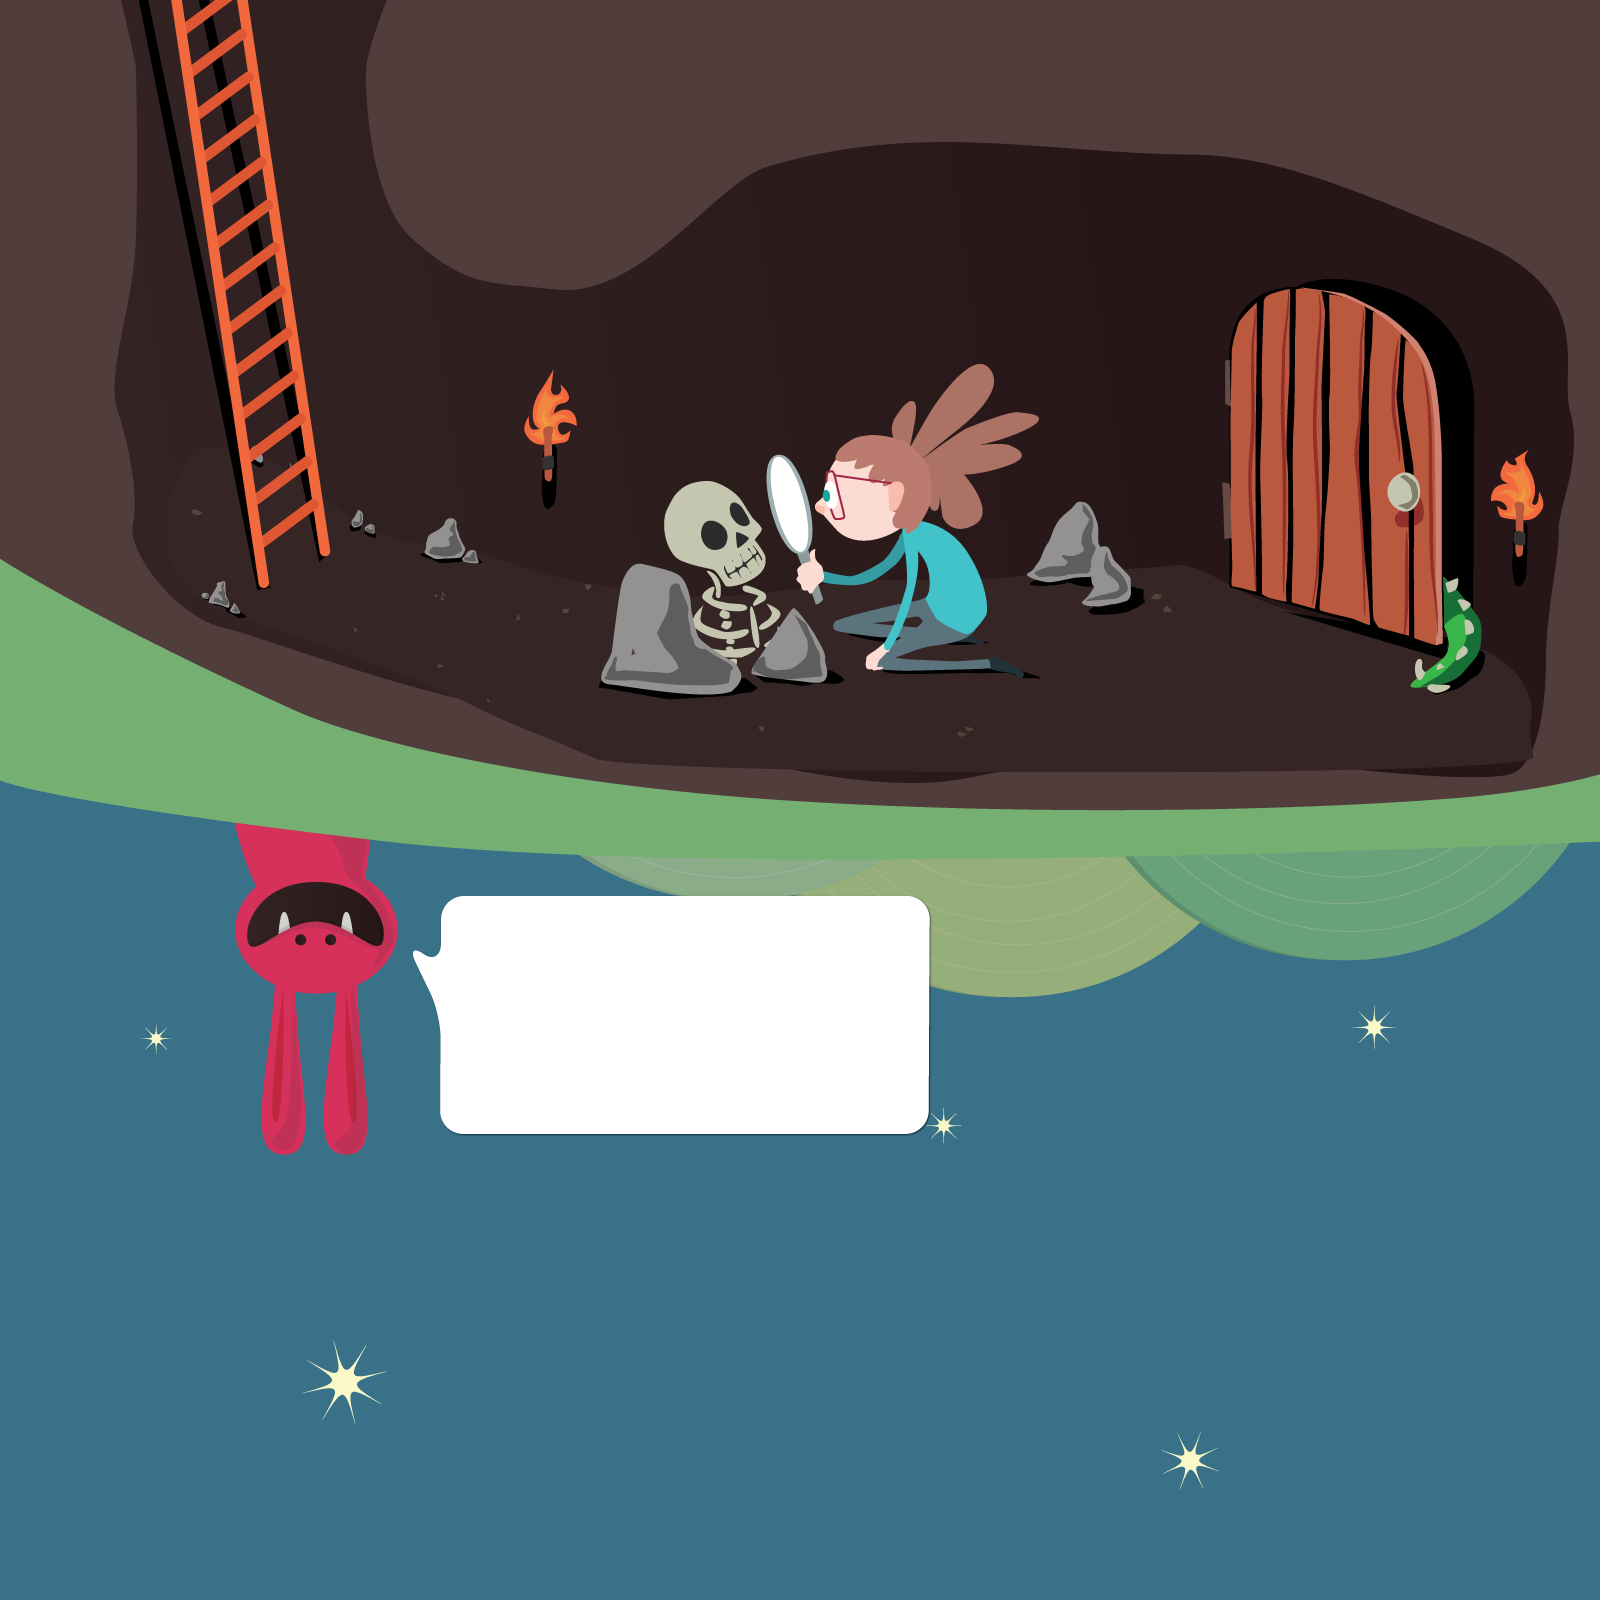
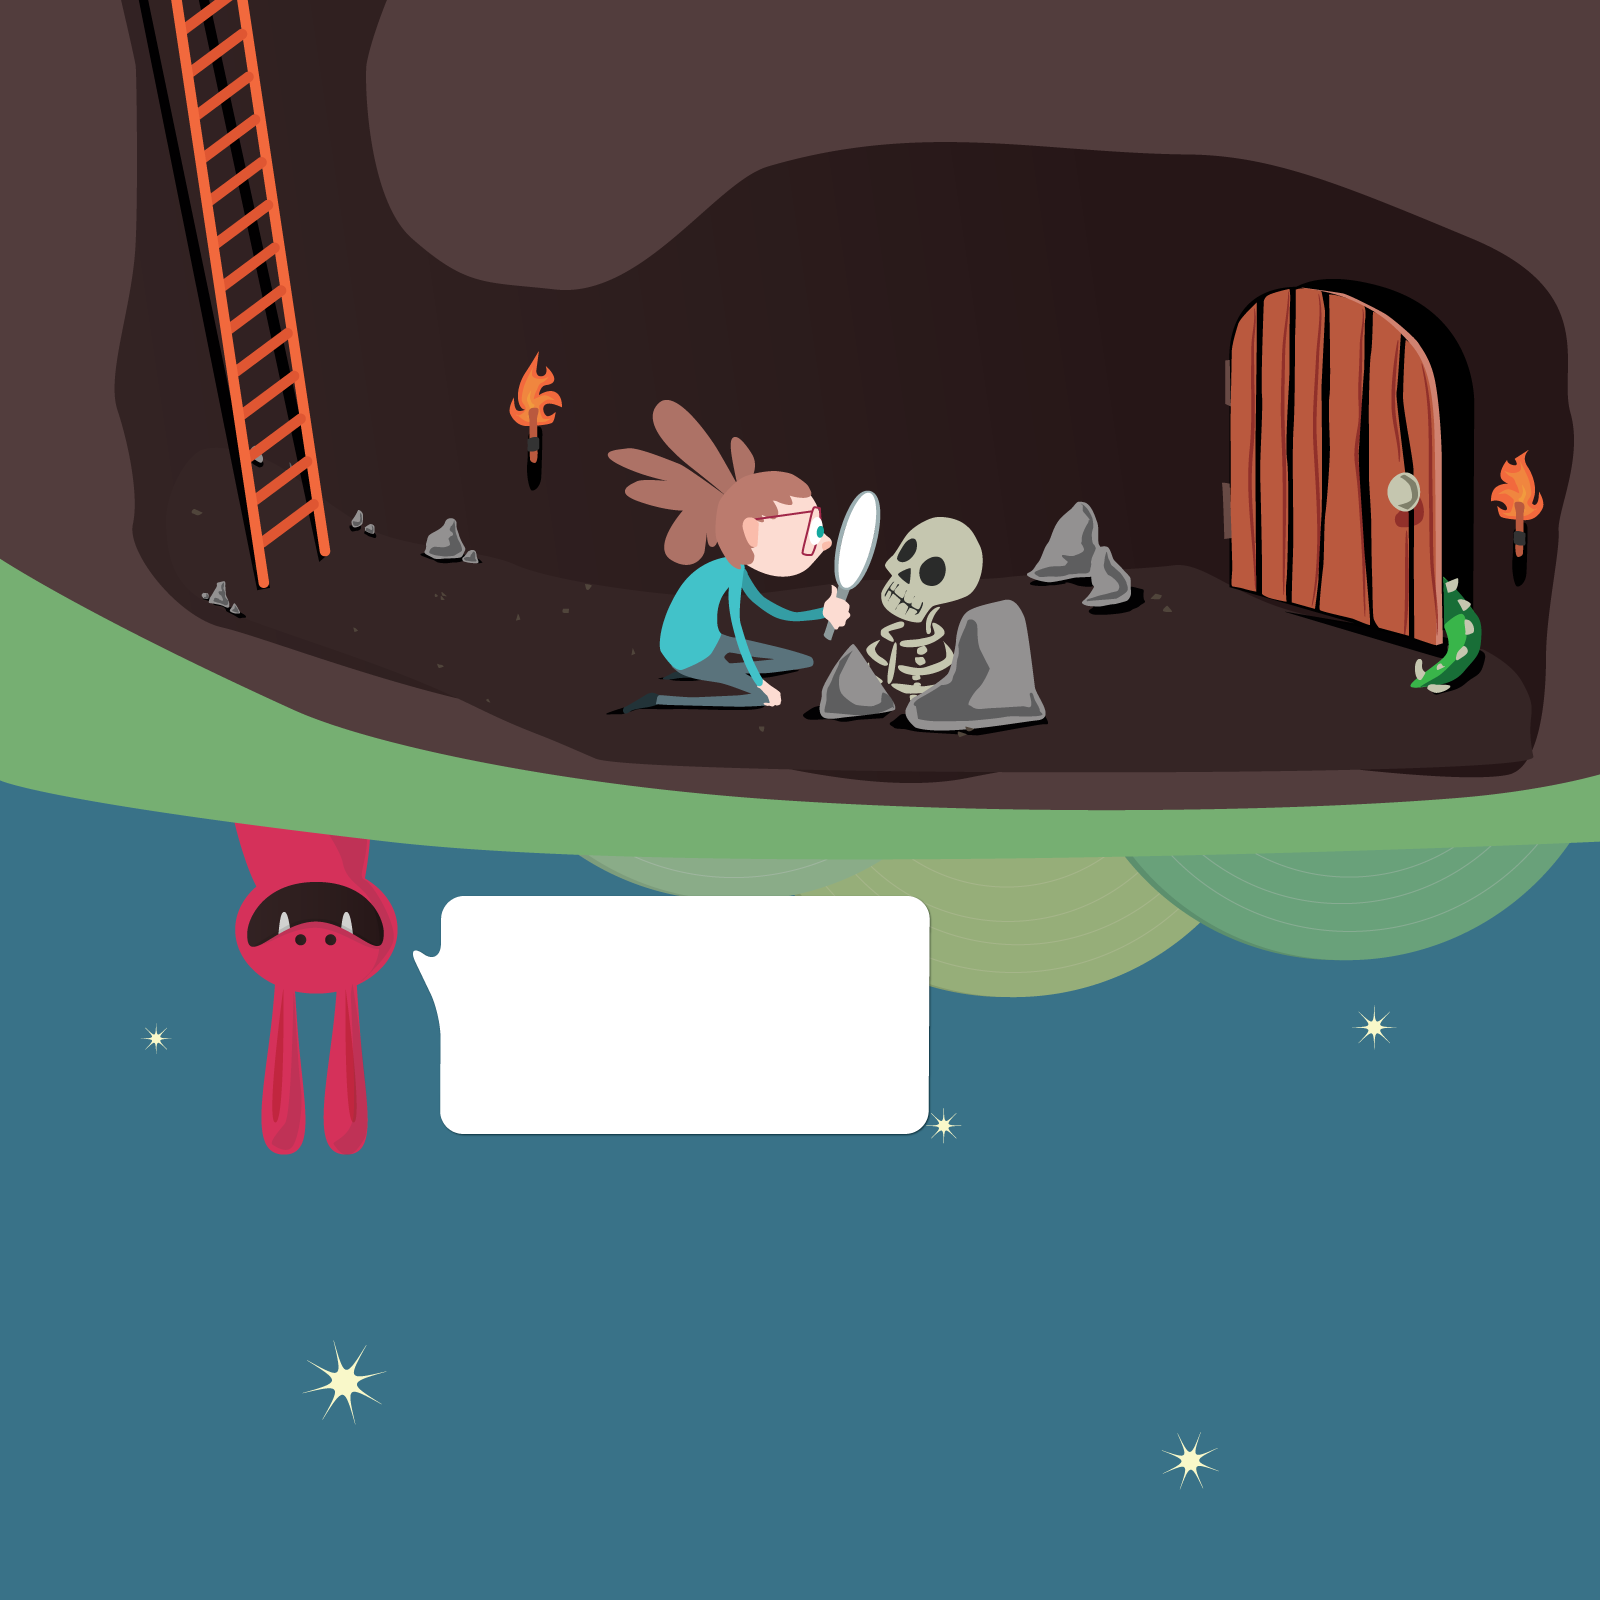
add mobile buttons, design, and text to learning page

Changed region(s): [[0.3125, 0.2188, 0.6562, 0.4688]]

diff --git a/style.css b/style.css
@@ -284,8 +284,19 @@ nav a.active {
 /* Footer */
 
 footer {
-  padding: 2rem 1rem;
+  position: relative;
+  padding: 2rem 1rem 6rem;   /* top | left/right | bottom */
   text-align: center;
+}
+
+.footer-frog {
+  display: block;
+  position: absolute;
+  bottom: 30%;
+  left: 75%;
+  transform: translateX(-50%);   /* center horizontally */
+  width: 20cqw; 
+  pointer-events: none; 
 }
 
 footer p {
@@ -322,19 +333,40 @@ footer p {
   .welcome-headline .w-nicole  { font-size: 17cqw; }
   .w-iam     { font-size: 6cqw; }
   .w-title   { font-size: 5cqw; }
-  .speech-bubble {
+  .page-home .speech-bubble {
     font-size: 3.5cqw;
     top: 40.5%;
     left: 11%;
     width: 55%
   }
+  .page-learning .speech-bubble {
+    font-size: 3.5cqw;
+    top: 56.2%;
+    left: 26.5%;
+    width: 56%
+  }
   .scene-button {
-    top: 72%;        /* new vertical position */
-    left: 33%;       /* new horizontal position */
-    width: 16cqw;    /* was 6cqw — bigger on mobile */
+    width: 16cqw;   
     height: 16cqw;
+  }
+  .page-home .button-learning {
+    top: 70%;       
+    left: 32%;  
+  }
+  .page-learning .button-home {
+    top: 13%;       
+    left: 14%;  
+  }
+  .page-learning .button-knowledge {
+    top: 23%;       
+    left: 67%;
   }
   .arrow {
   font-size: 10cqw;   /* was 5cqw */
-}
+  }
+  .page-home .try-me {
+    font-size: 4cqw;
+    top: 79.4%;
+    left: 32%;
+  }
 }

diff --git a/learning.html b/learning.html
@@ -35,12 +35,22 @@
     <main id="main-content">
     
       <section class="scene" aria-label="Welcome scene">
-        <img 
-          src="images/scene-learning-1600.png"
-          alt="..."
-          class="scene-bg"
-          width="1600" 
-          height="1600">
+        <picture>
+          <source 
+            media="(max-width: 850px)" 
+            srcset="images/scene-learning-mobile-750.png 750w,
+                    images/scene-learning-mobile-1125.png 1125w"
+            sizes="100vw">
+          <img 
+            src="images/scene-learning-1600.png"
+            srcset="images/scene-learning-1600.png 1600w,
+                    images/scene-learning-3200.png 3200w"
+            sizes="(max-width: 1600px) 100vw, 1600px"
+            alt=""
+            class="scene-bg"
+            width="1600" 
+            height="1600">
+        </picture>
         <p class="speech-bubble">
           <span class="bubble-quote quote-1">“</span>
           <span class="bubble-line line-1">Nicole really enjoys</span><br>
@@ -62,6 +72,7 @@
     </main>
 
     <footer>
+      <img src="images/frog-cloud.png" alt="" class="footer-frog">
       <p>&copy; 2026 Nicole Nascimento</p>
     </footer>
   </div>
